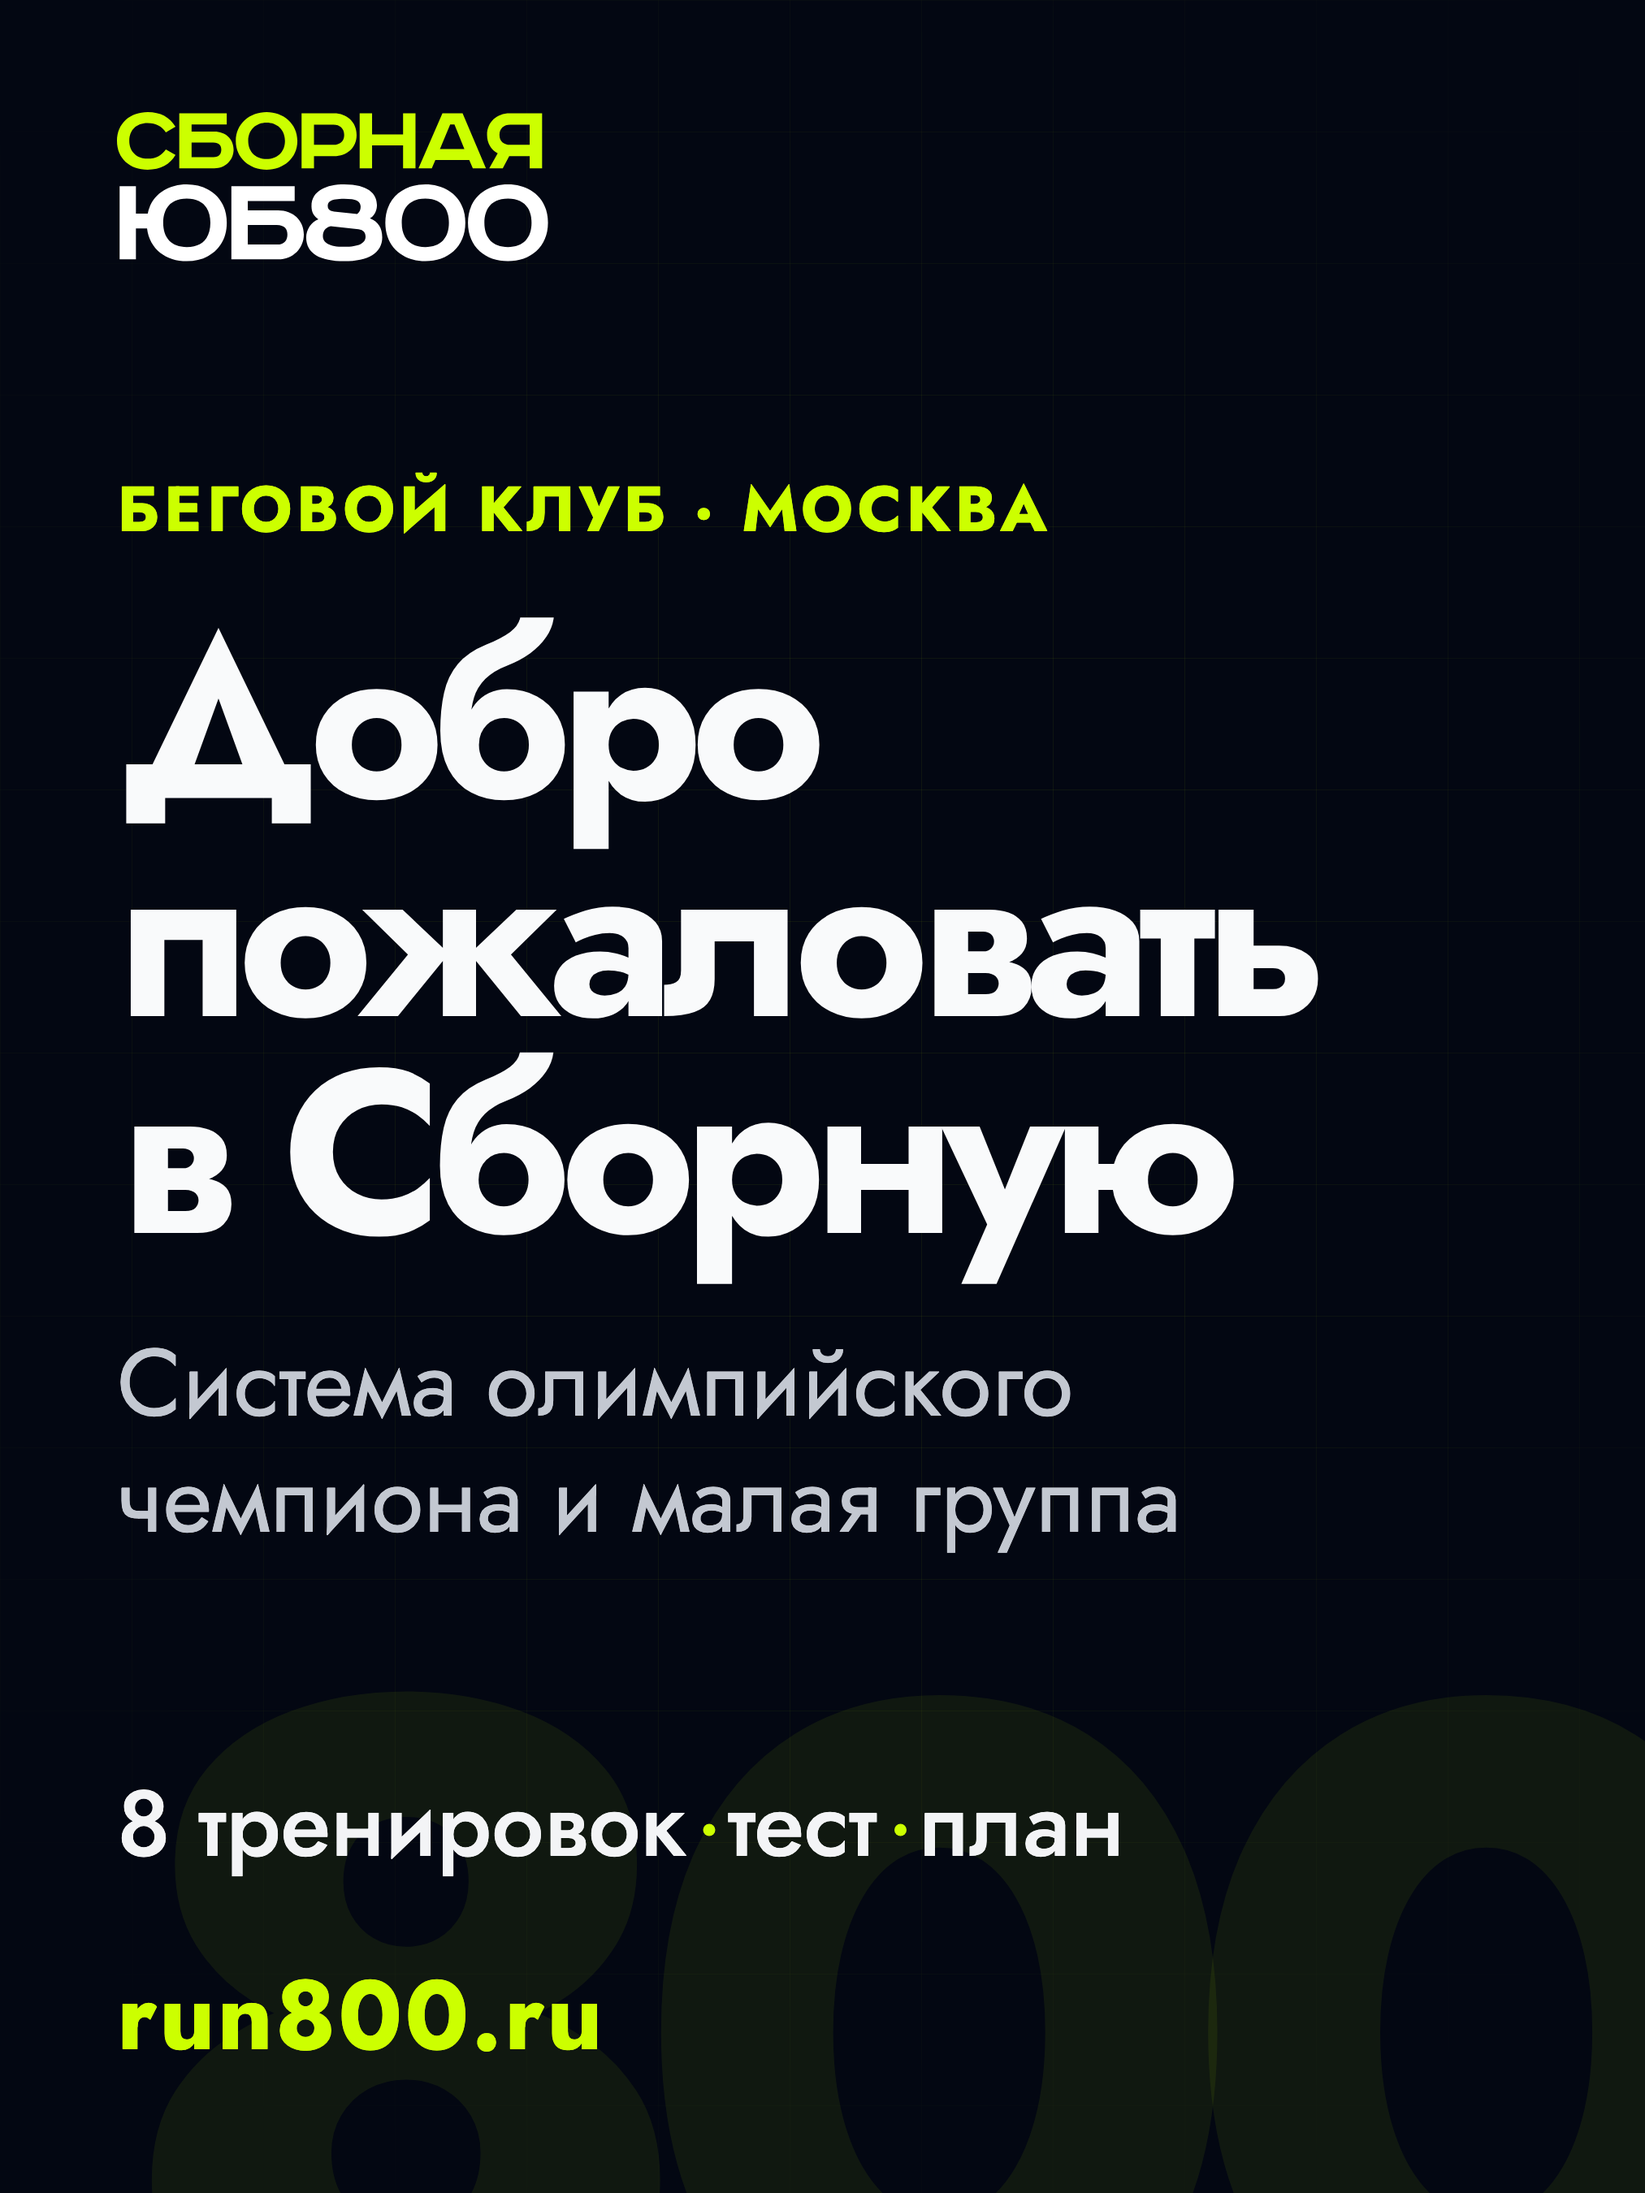
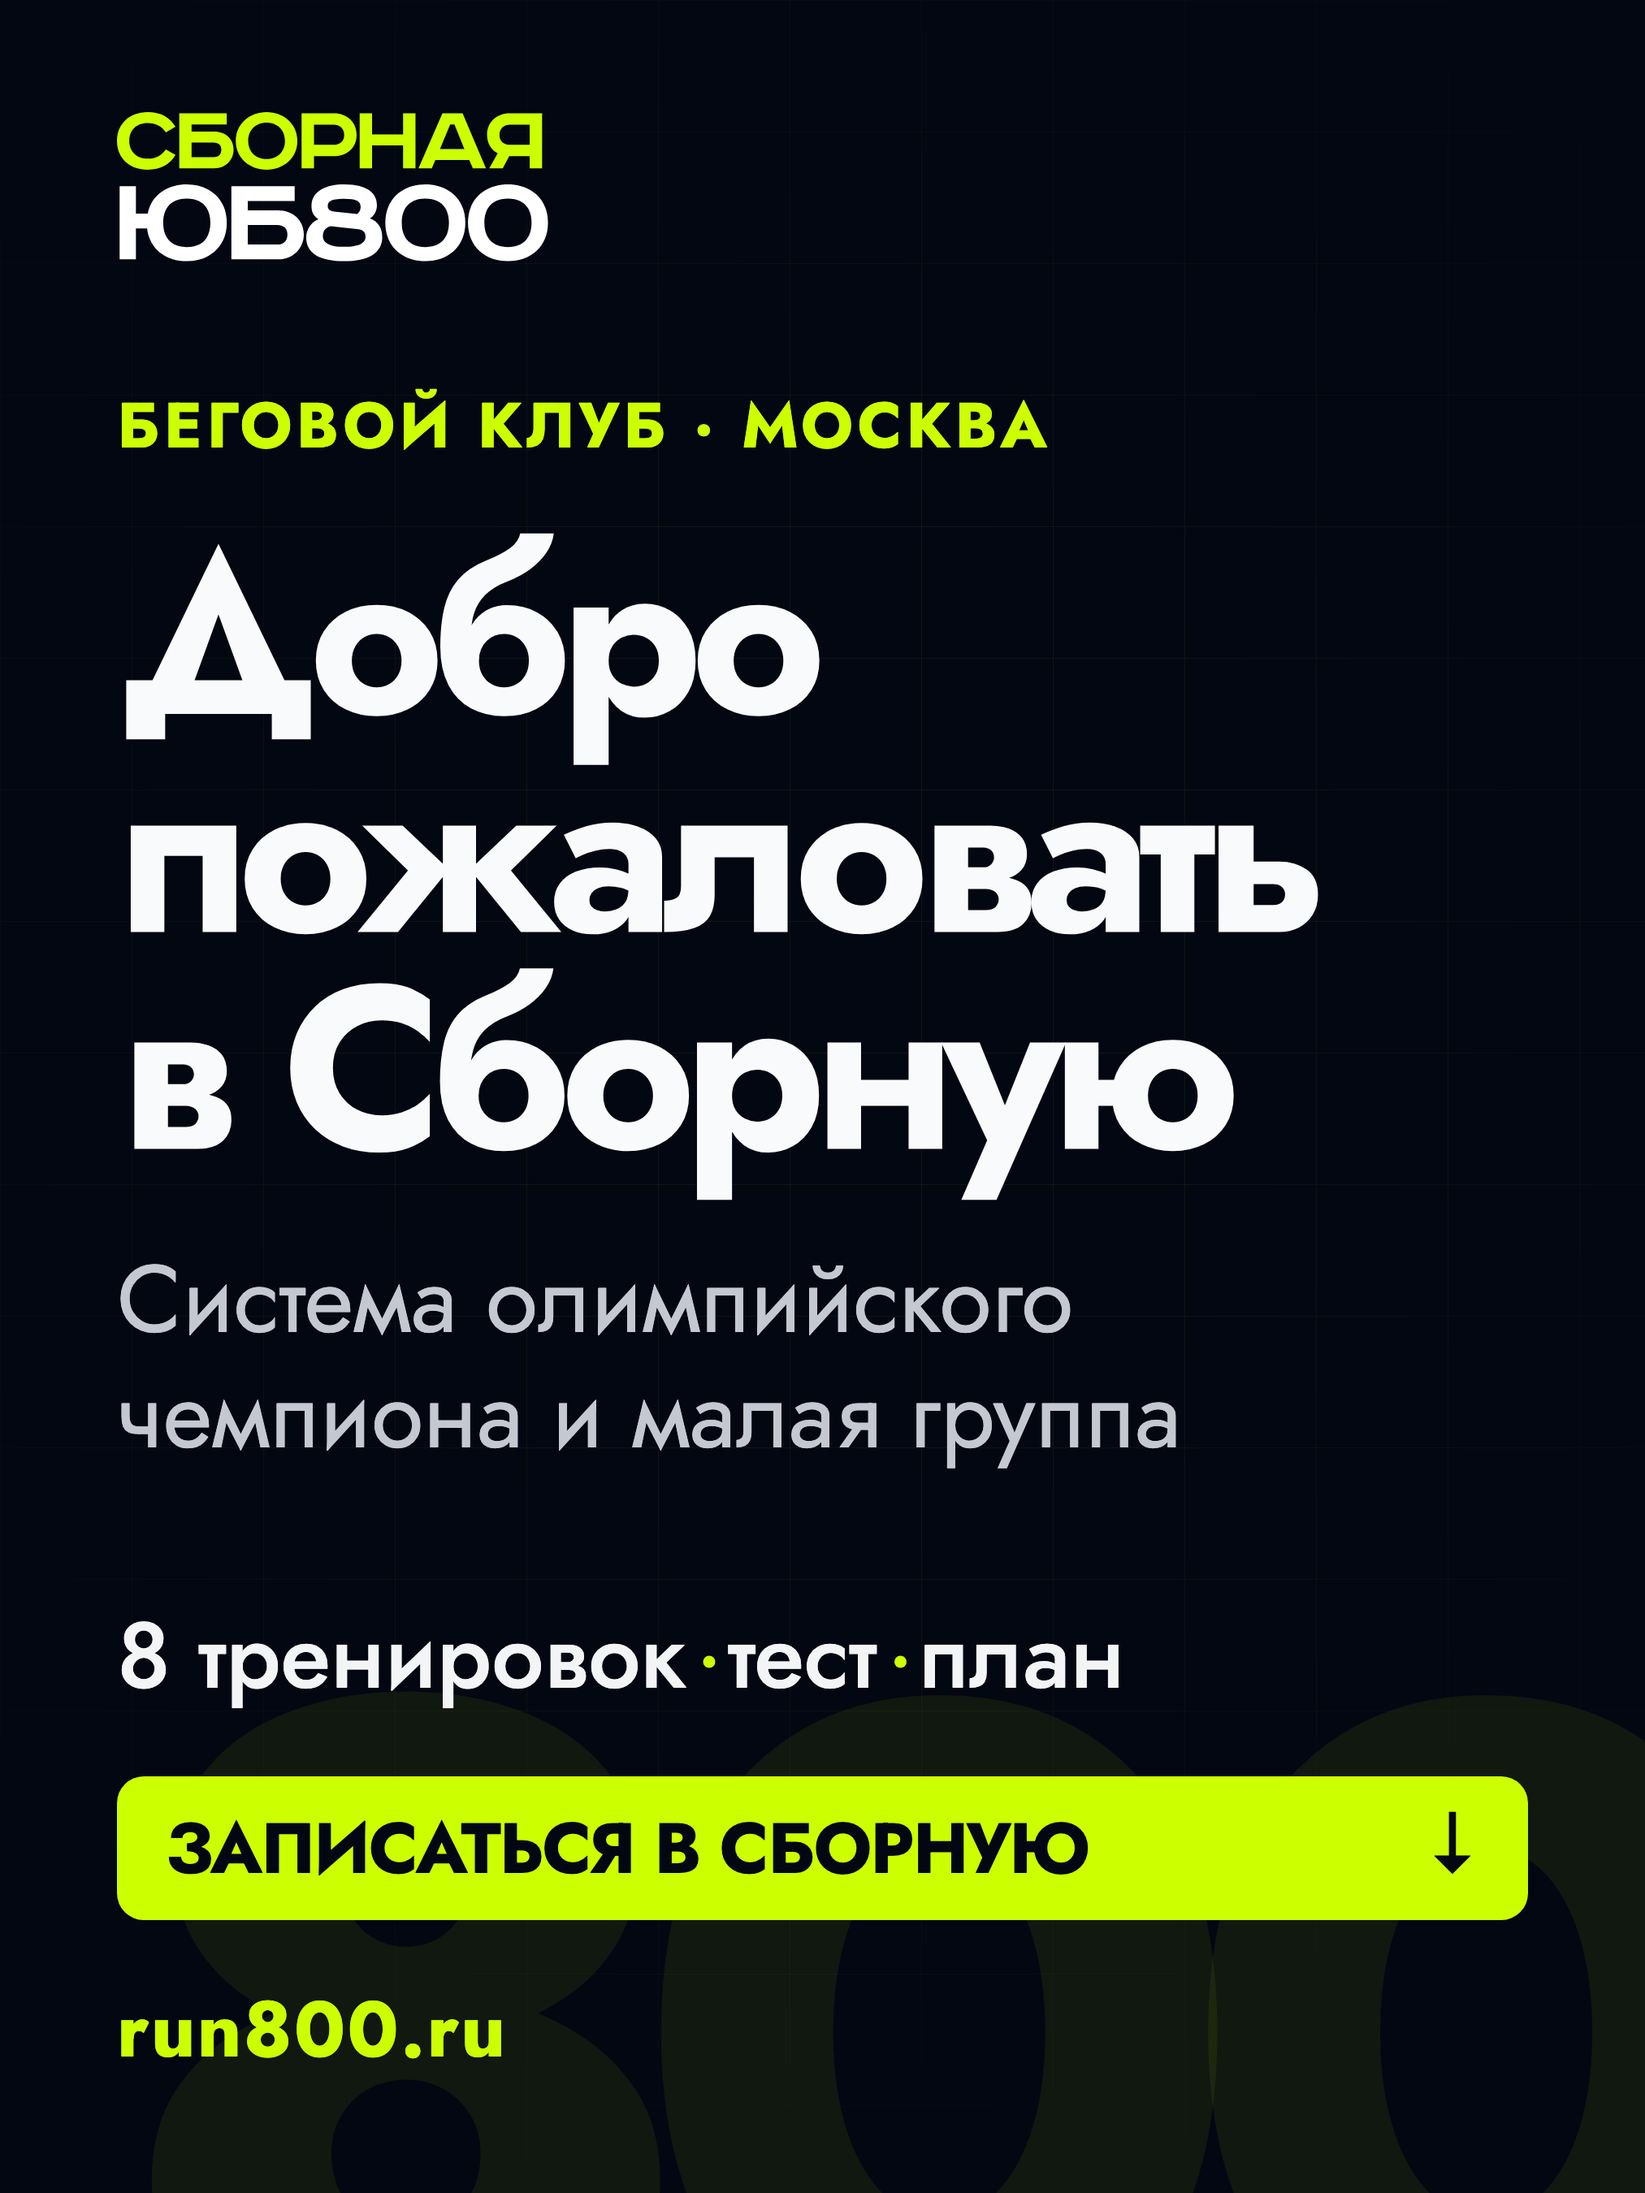
Add signup CTA to welcome card and restore menu items

diff --git a/bot/index.js b/bot/index.js
@@ -49,7 +49,7 @@ function startKeyboard() {
   return {
     inline_keyboard: [
       [{ text: "🏃 ЗАПИСАТЬСЯ В СБОРНУЮ", callback_data: "entry:join" }],
-      [{ text: "Открытая тренировка 21 ноября", callback_data: "menu:event" }]
+      [{ text: "Ближайшая открытая тренировка", callback_data: "menu:event" }]
     ]
   };
 }
@@ -537,7 +537,9 @@ async function poll() {
 async function main() {
   const privateCommands = [
     { command: "join", description: "Записаться в Сборную" },
-    { command: "event", description: "Ближайшая открытая тренировка" }
+    { command: "event", description: "Ближайшая открытая тренировка" },
+    { command: "chat", description: "Чат участников Сборной" },
+    { command: "channel", description: "Канал о беге" }
   ];
 
   await bot

diff --git a/docs/journal/2026-10-29-bot-welcome-card.md b/docs/journal/2026-10-29-bot-welcome-card.md
@@ -99,3 +99,11 @@
 - В экране открытой тренировки кнопка: «🏃 ЗАПИСАТЬСЯ».
 - Telegram не поддерживает цвет и размер отдельных inline-кнопок, поэтому акцент сделан текстом и порядком.
 - Бэкап: `/root/backups/yb800-bot-20261029-185622.tgz`.
+
+## Плашка CTA и возврат пунктов меню
+
+- На карточку добавлена лаймовая плашка «ЗАПИСАТЬСЯ В СБОРНУЮ ↓».
+- Вторая кнопка снова называется «Ближайшая открытая тренировка».
+- В меню возвращены `/chat` и `/channel`: join, event, chat, channel.
+- Тестовая карточка отправлена в чат `264751704` (message_id 81).
+- Бэкап: `/root/backups/yb800-bot-20261029-185944.tgz`.

diff --git a/bot/README.md b/bot/README.md
@@ -31,8 +31,10 @@
 
 - `/join` — записаться в Сборную
 - `/event` — ближайшая открытая тренировка
+- `/chat` — чат участников Сборной
+- `/channel` — канал о беге
 
-`/start` и `/help` работают, но в меню не выводятся: меню повторяет две кнопки под приветствием. Чат и канал выдаются после принятой заявки.
+`/start` и `/help` работают, но в меню не выводятся. Под приветствием — две кнопки: запись и открытая тренировка; чат и канал появляются там после принятой заявки, но остаются доступны из меню.
 
 Служебное:
 
